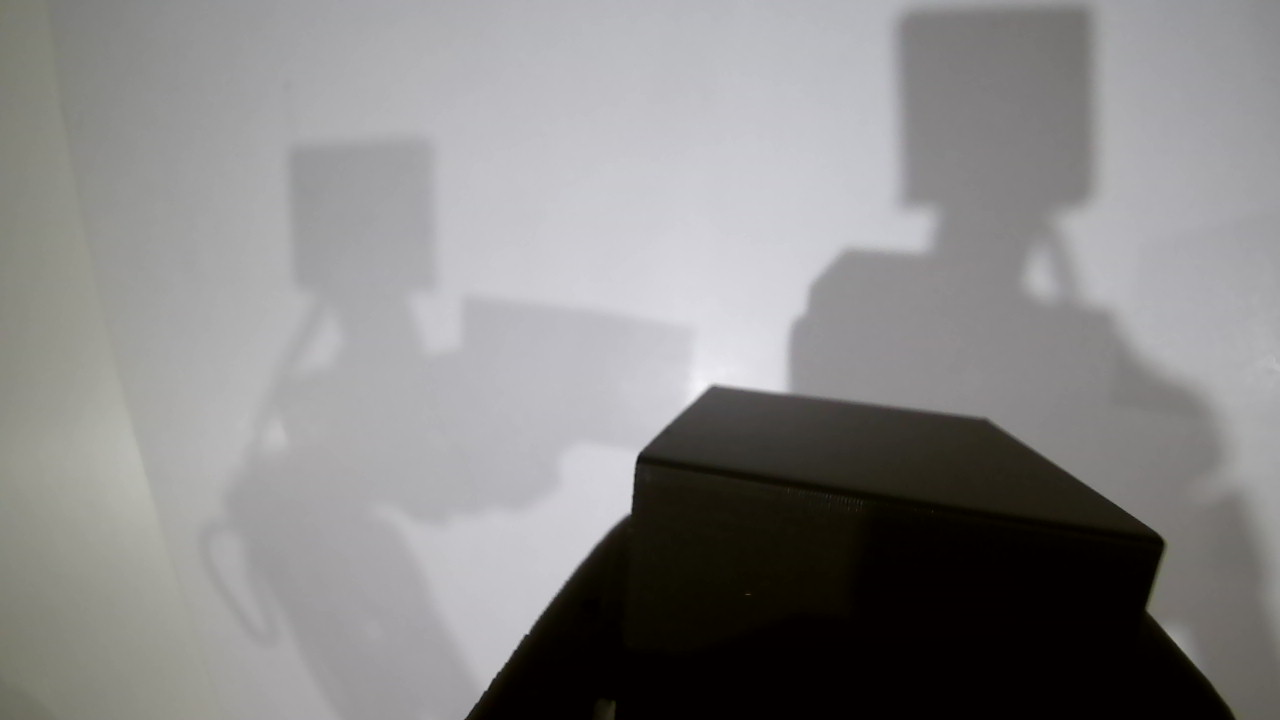
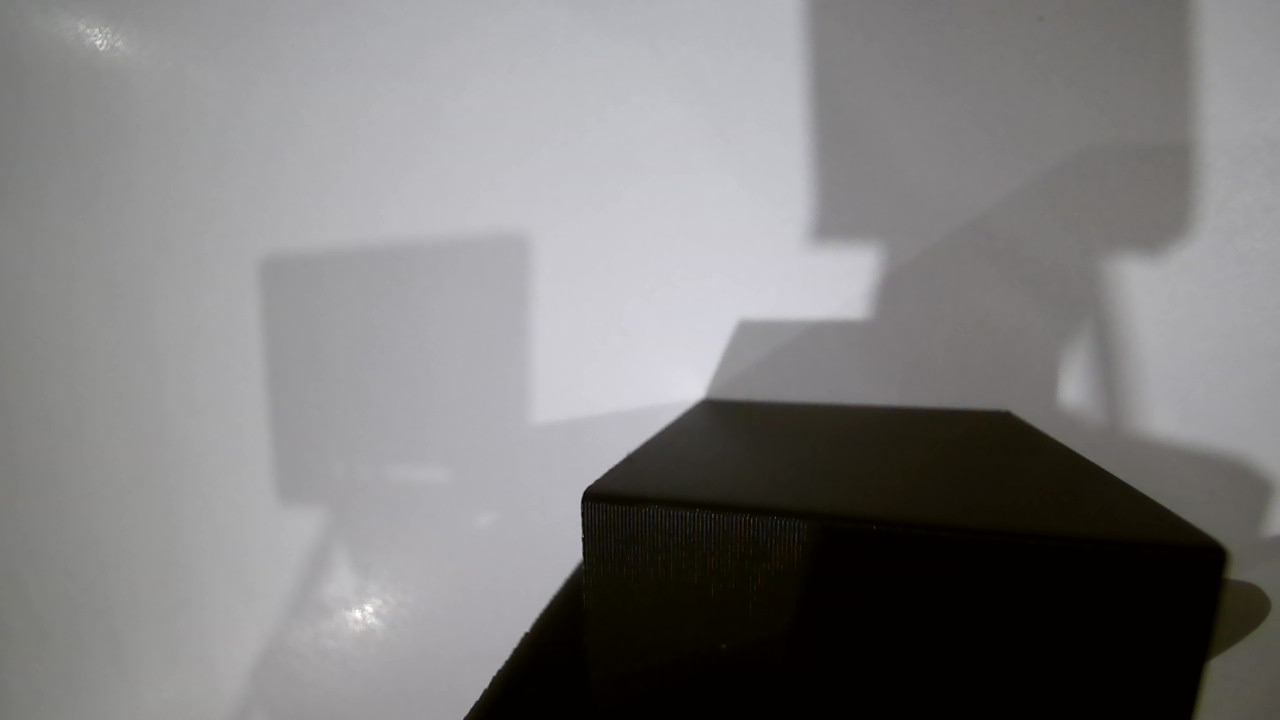
Update tools for arm-007__gpt-6-astra__grasp-cube
{"agent_id": "arm-007__gpt-6-astra__grasp-cube", "designation": "arm-007", "identity_version": 2, "model": "gpt-6-astra", "provider": "codex", "task_definition": {"description": "Start episode, pickup the black cube, bring black cube to home position, confirm successful grasp, stop episode, return object to new position, return home, repeat", "id": "grasp-cube", "success_criteria": ["successful episode coverage across the entire workspace", "achieve at least 50 successful episodes an hour"], "version": 2}, "task_id": "grasp-cube", "task_sha256": "e6c8adbb1562fdc6af3405e2e618046b110e27856c520c9f5cd329c258fb3818", "task_version": 2, "tools_sha256": "ac472555225cf4b66b66b581ea27a3f5e380e9313f55840252aaade1e1f12d97"}

diff --git a/agents/arm-007__gpt-6-astra__grasp-cube/cube_cycles.py b/agents/arm-007__gpt-6-astra__grasp-cube/cube_cycles.py
@@ -35,13 +35,14 @@ def grip(b):
   c.move(b,{'gripper':goal},.05);time.sleep(.06)
   actual=b.read('Present_Position','gripper')
   if actual-goal>1.3:
-   b.write('Goal_Position','gripper',actual-1.2)
-   time.sleep(.2)
+   if not 18<actual<35:raise RuntimeError('Unexpected contact width: '+str(actual))
+   b.write('Goal_Position','gripper',min(24.,actual-1.2))
+   time.sleep(.15)
    return actual
  raise RuntimeError('No cube contact')
 def held(b):
  img,meta=read_frame('wrist')
- dark=float(np.mean(cv2.cvtColor(img[280:580,720:1080],cv2.COLOR_BGR2GRAY)<65))
+ dark=float(np.mean(cv2.cvtColor(img[500:650,730:1030],cv2.COLOR_BGR2GRAY)<65))
  p=b.read('Present_Position','gripper')
  ok=15<p<35 and dark>.85
  return ok,dict(gripper=p,wrist_dark=dark,frame_seq=meta['seq'])
@@ -49,7 +50,7 @@ def run(n):
  if Path('tools/cube_recovery_required.json').exists():
   raise RuntimeError('Re-localize cube and validate pickup before clearing tools/cube_recovery_required.json')
  current=json.loads(STATE.read_text()) if STATE.exists() else pose(17)
- grid=[(pan,e) for e in (20,40,60,80,10) for pan in (-40,-25,-10,5,20,35,40)]
+ grid=[(pan,e) for e in (20,30,40,50,60) for pan in (-35,-20,-5,10,25,40)]
  offset=int(os.environ.get("CUBE_GRID_OFFSET","0"))
  grid=grid[offset:]+grid[:offset]
  active=False
@@ -60,7 +61,9 @@ def run(n):
     ep=recording.start_recording('Pick black cube, bring to home, visually confirm retained grasp');active=True
     move(b,above(current));move(b,current,1.5)
     contact=grip(b)
-    move(b,above(current),1.5);home(b)
+    move(b,above(current),1.5)
+    p=b.read('Present_Position','gripper');b.write('Goal_Position','gripper',p-.8)
+    home(b)
     ok,evidence=held(b);snapshot()
     receipt=recording.stop_recording(ok,json.dumps(dict(source_pose=current,contact=contact,home_confirm=evidence)));active=False
     emit(event='episode',success=ok,receipt=receipt,evidence=evidence)
